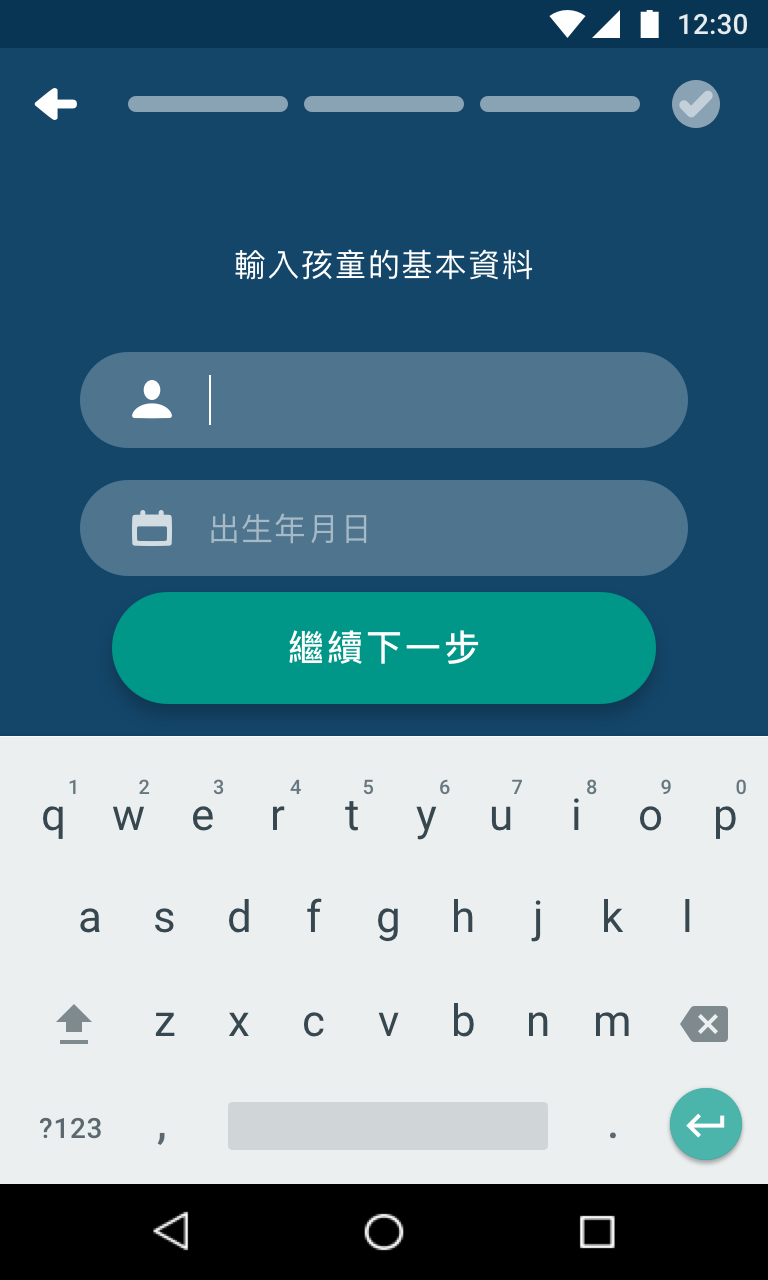
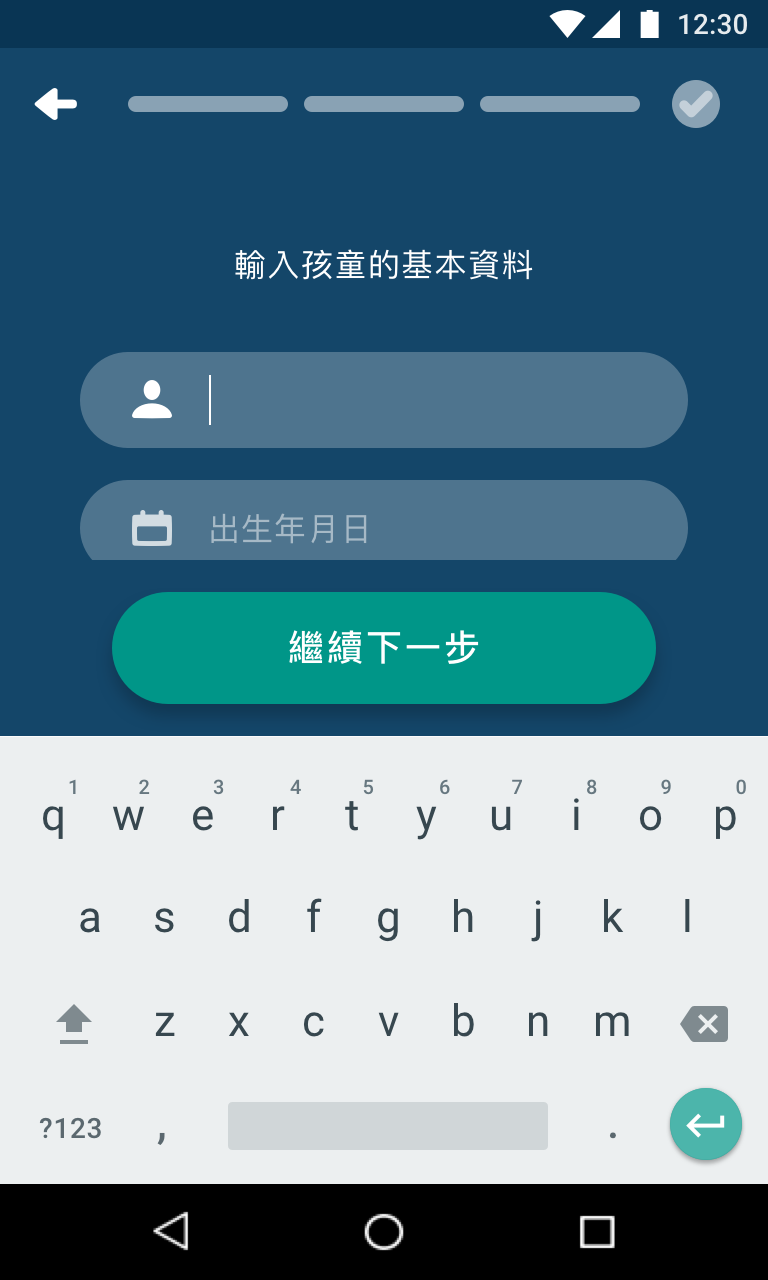
z

Changed region(s): [[0.125, 0.4375, 0.875, 0.4688]]

diff --git a/page_user_addkid(1)_typing/index.html b/page_user_addkid(1)_typing/index.html
@@ -1656,7 +1656,7 @@ I18N['zh-tw'] = {
     init.prototype = SMApp.fn;
     window.SMApp = SMApp;
 })(window);
-$(function(){ SMApp({"scale":"1","unit":"px","colorFormat":"color-hex","artboards":[{"layers":[{"objectID":"F35A9DF7-273A-4586-AC13-E6847CE329DE","type":"shape","name":"Bg_darkBlue","rect":{"x":0,"y":24,"width":384,"height":568},"rotation":0,"radius":0,"borders":[],"fills":[{"fillType":"color","color":{"r":20,"g":70,"b":105,"a":1,"color-hex":"#144669 100%","argb-hex":"#FF144669","css-rgba":"rgba(20,70,105,1)","ui-color":"(r:0.08 g:0.27 b:0.41 a:1.00)"}}],"shadows":[],"opacity":1,"styleName":"","css":["background: #144669;"]},{"objectID":"54569F8D-7CCC-48DC-B04D-5A514C8A64B6","type":"shape","name":"nav_bar","rect":{"x":0,"y":592,"width":384,"height":48},"rotation":0,"radius":0,"borders":[],"fills":[],"shadows":[],"opacity":1,"styleName":""},{"objectID":"A15F91AF-730A-4074-A24E-D45C4149D91A","type":"symbol","name":"Bar/Header","rect":{"x":0,"y":24,"width":384,"height":56},"rotation":0,"radius":0,"borders":[],"fills":[],"shadows":[],"opacity":1,"styleName":""},{"objectID":"F7567344-B48B-42DA-A3CC-50CE141C64CD","type":"shape","name":"bg","rect":{"x":0,"y":24,"width":384,"height":56},"rotation":0,"radius":0,"borders":[],"fills":[{"fillType":"color","color":{"r":20,"g":70,"b":105,"a":1,"color-hex":"#144669 100%","argb-hex":"#FF144669","css-rgba":"rgba(20,70,105,1)","ui-color":"(r:0.08 g:0.27 b:0.41 a:1.00)"}}],"shadows":[],"opacity":1,"styleName":"","css":["background: #144669;"]},{"objectID":"583EEB53-0298-4464-92ED-E6D612EDCB21","type":"symbol","name":"Icon/menu","rect":{"x":16,"y":40,"width":24,"height":24},"rotation":0,"radius":0,"borders":[],"fills":[],"shadows":[],"opacity":1,"styleName":"","exportable":[{"name":"Icon/back","format":"png","path":"Icon/back.png"}]},{"objectID":"1D9038E2-0B4B-4B89-8FD6-5779EE9AC07C","type":"symbol","name":"Bars/Status bar","rect":{"x":0,"y":0,"width":384,"height":24},"rotation":0,"radius":0,"borders":[],"fills":[],"shadows":[],"opacity":1,"styleName":""},{"objectID":"92B9CC3F-C79D-4213-845D-358967D93061","type":"shape","name":"status bar bg","rect":{"x":0,"y":0,"width":384,"height":24},"rotation":0,"radius":0,"borders":[],"fills":[{"fillType":"color","color":{"r":9,"g":53,"b":84,"a":1,"color-hex":"#093554 100%","argb-hex":"#FF093554","css-rgba":"rgba(9,53,84,1)","ui-color":"(r:0.04 g:0.21 b:0.33 a:1.00)"}}],"shadows":[],"opacity":1,"styleName":"","css":["background: #093554;"]},{"objectID":"C721A454-854E-449C-85BC-A123A8EC1018","type":"text","name":"12:30","rect":{"x":338.3,"y":4,"width":36,"height":16},"rotation":0,"radius":0,"borders":[],"fills":[{"fillType":"color","color":{"r":255,"g":255,"b":255,"a":1,"color-hex":"#FFFFFF 100%","argb-hex":"#FFFFFFFF","css-rgba":"rgba(255,255,255,1)","ui-color":"(r:1.00 g:1.00 b:1.00 a:1.00)"}}],"shadows":[],"opacity":1,"styleName":"","content":"12:30","color":{"r":0,"g":0,"b":0,"a":1,"color-hex":"#000000 100%","argb-hex":"#FF000000","css-rgba":"rgba(0,0,0,1)","ui-color":"(r:0.00 g:0.00 b:0.00 a:1.00)"},"fontSize":14,"fontFace":"Roboto-Medium","textAlign":"right","letterSpacing":0,"lineHeight":16,"css":["font-family: Roboto-Medium;","font-size: 14px;","color: #000000;"]},{"objectID":"EA577749-950A-4B95-AE91-1471809E4D5C","type":"shape","name":"bounds","rect":{"x":317.3,"y":4,"width":16,"height":16},"rotation":0,"radius":0,"borders":[],"fills":[],"shadows":[],"opacity":1,"styleName":""},{"objectID":"04509B03-1C82-4E70-A60B-563CB5EFDEED","type":"shape","name":"Shape","rect":{"x":320.3,"y":5,"width":9,"height":14},"rotation":0,"radius":0,"borders":[],"fills":[{"fillType":"color","color":{"r":255,"g":255,"b":255,"a":1,"color-hex":"#FFFFFF 100%","argb-hex":"#FFFFFFFF","css-rgba":"rgba(255,255,255,1)","ui-color":"(r:1.00 g:1.00 b:1.00 a:1.00)"}}],"shadows":[],"opacity":1,"styleName":"","css":["background: #FFFFFF;"]},{"objectID":"7EBD03E0-7CF8-4DF4-84D6-87FC9A84FB1E","type":"shape","name":"bounds","rect":{"x":296,"y":4,"width":16,"height":16},"rotation":0,"radius":0,"borders":[],"fills":[],"shadows":[],"opacity":1,"styleName":""},{"objectID":"CBB32A07-0D54-40D4-A69F-2B64CBF676E5","type":"shape","name":"Shape","rect":{"x":296,"y":5,"width":14,"height":14},"rotation":0,"radius":0,"borders":[],"fills":[{"fillType":"color","color":{"r":255,"g":255,"b":255,"a":1,"color-hex":"#FFFFFF 100%","argb-hex":"#FFFFFFFF","css-rgba":"rgba(255,255,255,1)","ui-color":"(r:1.00 g:1.00 b:1.00 a:1.00)"}}],"shadows":[],"opacity":1,"styleName":"","css":["background: #FFFFFF;"]},{"objectID":"1C63ECF8-A21C-468D-A2E0-36C0B9689898","type":"shape","name":"bounds","rect":{"x":275.7,"y":4,"width":16,"height":16},"rotation":0,"radius":0,"borders":[],"fills":[],"shadows":[],"opacity":1,"styleName":""},{"objectID":"7A5D021E-5761-4B5B-A926-8A58D348CA3B","type":"shape","name":"Shape","rect":{"x":274.7,"y":5,"width":18,"height":14},"rotation":0,"radius":0,"borders":[],"fills":[{"fillType":"color","color":{"r":255,"g":255,"b":255,"a":1,"color-hex":"#FFFFFF 100%","argb-hex":"#FFFFFFFF","css-rgba":"rgba(255,255,255,1)","ui-color":"(r:1.00 g:1.00 b:1.00 a:1.00)"}}],"shadows":[],"opacity":1,"styleName":"","css":["background: #FFFFFF;"]},{"objectID":"CB2D9A11-7370-4C8A-A47B-BFACD473E6F5","type":"shape","name":"Line1","rect":{"x":152,"y":48,"width":80,"height":8},"rotation":0,"radius":100,"borders":[],"fills":[{"fillType":"color","color":{"r":255,"g":255,"b":255,"a":0.5,"color-hex":"#FFFFFF 50%","argb-hex":"#80FFFFFF","css-rgba":"rgba(255,255,255,0.5)","ui-color":"(r:1.00 g:1.00 b:1.00 a:0.50)"}}],"shadows":[],"opacity":1,"styleName":"","css":["background: rgba(255,255,255,0.50);","border-radius: 100px;"]},{"objectID":"5EA19C75-C6E9-4918-BEF9-CAD501B7AD96","type":"shape","name":"Line2","rect":{"x":240,"y":48,"width":80,"height":8},"rotation":0,"radius":100,"borders":[],"fills":[{"fillType":"color","color":{"r":255,"g":255,"b":255,"a":0.5,"color-hex":"#FFFFFF 50%","argb-hex":"#80FFFFFF","css-rgba":"rgba(255,255,255,0.5)","ui-color":"(r:1.00 g:1.00 b:1.00 a:0.50)"}}],"shadows":[],"opacity":1,"styleName":"","css":["background: rgba(255,255,255,0.50);","border-radius: 100px;"]},{"objectID":"AE4B0444-88B0-4682-AEEB-9C0E102E9D0F","type":"shape","name":"Line3","rect":{"x":64,"y":48,"width":80,"height":8},"rotation":0,"radius":100,"borders":[],"fills":[{"fillType":"color","color":{"r":255,"g":255,"b":255,"a":0.5,"color-hex":"#FFFFFF 50%","argb-hex":"#80FFFFFF","css-rgba":"rgba(255,255,255,0.5)","ui-color":"(r:1.00 g:1.00 b:1.00 a:0.50)"}}],"shadows":[],"opacity":1,"styleName":"","css":["background: rgba(255,255,255,0.50);","border-radius: 100px;"]},{"objectID":"E7587176-18C0-4594-A630-BC49807261DA","type":"shape","name":"Oval 6","rect":{"x":336,"y":40,"width":24,"height":24},"rotation":0,"radius":0,"borders":[],"fills":[{"fillType":"color","color":{"r":255,"g":255,"b":255,"a":0.5,"color-hex":"#FFFFFF 50%","argb-hex":"#80FFFFFF","css-rgba":"rgba(255,255,255,0.5)","ui-color":"(r:1.00 g:1.00 b:1.00 a:0.50)"}}],"shadows":[],"opacity":1,"styleName":"","css":["background: rgba(255,255,255,0.50);"]},{"objectID":"1C34B1A2-B765-4899-8F80-1F87E7AFF339","type":"symbol","name":"Icon/check","rect":{"x":338,"y":42,"width":20,"height":20},"rotation":0,"radius":0,"borders":[],"fills":[],"shadows":[],"opacity":0.5,"styleName":"","css":["opacity: 0.5;"],"exportable":[{"name":"Icon/check","format":"png","path":"Icon/check.png"}]},{"objectID":"2AE68729-B81B-4434-84A7-F0B0F8B45E3D","type":"shape","name":"Bg_selected","rect":{"x":51,"y":384,"width":133,"height":48},"rotation":0,"radius":100,"borders":[],"fills":[{"fillType":"color","color":{"r":255,"g":255,"b":255,"a":0.2499999850988388,"color-hex":"#FFFFFF 25%","argb-hex":"#40FFFFFF","css-rgba":"rgba(255,255,255,0.25)","ui-color":"(r:1.00 g:1.00 b:1.00 a:0.25)"}}],"shadows":[],"opacity":1,"styleName":"","css":["background: rgba(255,255,255,0.25);","border-radius: 100px;"]},{"objectID":"DD608600-B167-4226-B98E-419C58F03BB1","type":"text","name":"男孩","rect":{"x":123,"y":396,"width":37,"height":24},"rotation":0,"radius":0,"borders":[],"fills":[],"shadows":[],"opacity":1,"styleName":"","content":"男孩","color":{"r":255,"g":255,"b":255,"a":1,"color-hex":"#FFFFFF 100%","argb-hex":"#FFFFFFFF","css-rgba":"rgba(255,255,255,1)","ui-color":"(r:1.00 g:1.00 b:1.00 a:1.00)"},"fontSize":18,"fontFace":"PingFangTC-Medium","textAlign":"left","letterSpacing":0.5,"lineHeight":24,"css":["font-family: PingFangTC-Medium;","font-size: 18px;","color: #FFFFFF;","letter-spacing: 0.5px;","line-height: 24px;"]},{"objectID":"D6E62005-7B8C-48E0-A602-71E6C058E6CD","type":"slice","name":"avatar_boy","rect":{"x":67,"y":388,"width":40,"height":40},"exportable":[{"name":"avatar_boy","format":"png","path":"avatar_boy.png"}]},{"objectID":"3F7D44EF-9E5F-43E8-9144-23ACFE503E84","type":"shape","name":"Bg_selected","rect":{"x":200,"y":384,"width":133,"height":48},"rotation":0,"radius":100,"borders":[],"fills":[{"fillType":"color","color":{"r":255,"g":255,"b":255,"a":0,"color-hex":"#FFFFFF 0%","argb-hex":"#00FFFFFF","css-rgba":"rgba(255,255,255,0)","ui-color":"(r:1.00 g:1.00 b:1.00 a:0.00)"}}],"shadows":[],"opacity":1,"styleName":"","css":["background: rgba(255,255,255,0.00);","border-radius: 100px;"]},{"objectID":"10AC87CB-9067-490D-91B4-E22D6F52D95B","type":"text","name":"女孩","rect":{"x":272,"y":396,"width":37,"height":24},"rotation":0,"radius":0,"borders":[],"fills":[],"shadows":[],"opacity":1,"styleName":"","content":"女孩","color":{"r":255,"g":255,"b":255,"a":1,"color-hex":"#FFFFFF 100%","argb-hex":"#FFFFFFFF","css-rgba":"rgba(255,255,255,1)","ui-color":"(r:1.00 g:1.00 b:1.00 a:1.00)"},"fontSize":18,"fontFace":"PingFangTC-Medium","textAlign":"left","letterSpacing":0.5,"lineHeight":24,"css":["font-family: PingFangTC-Medium;","font-size: 18px;","color: #FFFFFF;","letter-spacing: 0.5px;","line-height: 24px;"]},{"objectID":"B9CFD9AF-51E1-4D6F-BD3B-3FF71C1AD1D6","type":"slice","name":"avatar_girl copy","rect":{"x":216,"y":388,"width":40,"height":40},"exportable":[{"name":"avatar_girl copy","format":"png","path":"avatar_girl copy.png"}]},{"objectID":"5A4222A2-9A8E-40EC-AA8E-1FA67712F30E","type":"text","name":"選擇孩童的性別","rect":{"x":134,"y":328,"width":117,"height":24},"rotation":0,"radius":0,"borders":[],"fills":[],"shadows":[],"opacity":1,"styleName":"","content":"選擇孩童的性別","color":{"r":255,"g":255,"b":255,"a":1,"color-hex":"#FFFFFF 100%","argb-hex":"#FFFFFFFF","css-rgba":"rgba(255,255,255,1)","ui-color":"(r:1.00 g:1.00 b:1.00 a:1.00)"},"fontSize":16,"fontFace":"Roboto-Regular","textAlign":"center","letterSpacing":0.699999988079071,"lineHeight":24,"css":["font-family: Roboto-Regular;","font-size: 16px;","color: #FFFFFF;","letter-spacing: 0.7px;","line-height: 24px;"]},{"objectID":"165B99B2-BEAC-4C39-AF09-68B660EC2441","type":"symbol","name":"Input/normal","rect":{"x":40,"y":176,"width":304,"height":48},"rotation":0,"radius":0,"borders":[],"fills":[],"shadows":[],"opacity":1,"styleName":""},{"objectID":"8D465CDA-E637-4CC5-B22B-4128F2A41E57","type":"shape","name":"Bg_input","rect":{"x":40,"y":176,"width":304,"height":48},"rotation":0,"radius":100,"borders":[],"fills":[{"fillType":"color","color":{"r":255,"g":255,"b":255,"a":0.25,"color-hex":"#FFFFFF 25%","argb-hex":"#40FFFFFF","css-rgba":"rgba(255,255,255,0.25)","ui-color":"(r:1.00 g:1.00 b:1.00 a:0.25)"}}],"shadows":[],"opacity":1,"styleName":"","css":["background: rgba(255,255,255,0.25);","border-radius: 100px;"]},{"objectID":"1E2AD092-03B3-434E-8F95-86852CD7C4F4","type":"symbol","name":"Icon/person","rect":{"x":64,"y":188,"width":24,"height":24},"rotation":0,"radius":0,"borders":[],"fills":[],"shadows":[],"opacity":1,"styleName":"","exportable":[{"name":"Icon/person","format":"png","path":"Icon/person.png"}]},{"objectID":"22693D0A-6DCF-45E9-A664-24AB9D79D315","type":"shape","name":"Line","rect":{"x":104,"y":188,"width":2,"height":24},"rotation":0,"radius":0,"borders":[{"fillType":"color","position":"center","thickness":1,"color":{"r":255,"g":255,"b":255,"a":1,"color-hex":"#FFFFFF 100%","argb-hex":"#FFFFFFFF","css-rgba":"rgba(255,255,255,1)","ui-color":"(r:1.00 g:1.00 b:1.00 a:1.00)"}}],"fills":[],"shadows":[],"opacity":1,"styleName":"","css":["border: 1px solid #FFFFFF;"]},{"objectID":"BF1D3D7E-54DC-400A-88F6-0B673BF03D0D","type":"symbol","name":"Input/normal Copy","rect":{"x":40,"y":240,"width":304,"height":48},"rotation":0,"radius":0,"borders":[],"fills":[],"shadows":[],"opacity":1,"styleName":""},{"objectID":"87D83326-6E0F-4EEA-B312-F28E05B72863","type":"shape","name":"Bg_input","rect":{"x":40,"y":240,"width":304,"height":48},"rotation":0,"radius":100,"borders":[],"fills":[{"fillType":"color","color":{"r":255,"g":255,"b":255,"a":0.25,"color-hex":"#FFFFFF 25%","argb-hex":"#40FFFFFF","css-rgba":"rgba(255,255,255,0.25)","ui-color":"(r:1.00 g:1.00 b:1.00 a:0.25)"}}],"shadows":[],"opacity":1,"styleName":"","css":["background: rgba(255,255,255,0.25);","border-radius: 100px;"]},{"objectID":"B507ECFD-4F80-4E1A-B5AC-7AC48E3BCA7C","type":"text","name":"Text_default","rect":{"x":104,"y":252,"width":83,"height":24},"rotation":0,"radius":0,"borders":[],"fills":[],"shadows":[],"opacity":0.5,"styleName":"","content":"出生年月日","color":{"r":255,"g":255,"b":255,"a":1,"color-hex":"#FFFFFF 100%","argb-hex":"#FFFFFFFF","css-rgba":"rgba(255,255,255,1)","ui-color":"(r:1.00 g:1.00 b:1.00 a:1.00)"},"fontSize":16,"fontFace":"Roboto-Regular","textAlign":"left","letterSpacing":0.5,"lineHeight":24,"css":["opacity: 0.5;","font-family: Roboto-Regular;","font-size: 16px;","color: #FFFFFF;","letter-spacing: 0.5px;","line-height: 24px;"]},{"objectID":"7F0D17CB-E802-4210-AAA2-933E3AF012D9","type":"symbol","name":"Icon/person","rect":{"x":64,"y":252,"width":24,"height":24},"rotation":0,"radius":0,"borders":[],"fills":[],"shadows":[],"opacity":0.75,"styleName":"","css":["opacity: 0.75;"],"exportable":[{"name":"Icon/calender","format":"png","path":"Icon/calender.png"}]},{"objectID":"10BD976D-127C-4422-BB02-BEDE1B1B2771","type":"text","name":"輸入孩童的基本資料","rect":{"x":117,"y":120,"width":150,"height":24},"rotation":0,"radius":0,"borders":[],"fills":[],"shadows":[],"opacity":1,"styleName":"","content":"輸入孩童的基本資料","color":{"r":255,"g":255,"b":255,"a":1,"color-hex":"#FFFFFF 100%","argb-hex":"#FFFFFFFF","css-rgba":"rgba(255,255,255,1)","ui-color":"(r:1.00 g:1.00 b:1.00 a:1.00)"},"fontSize":16,"fontFace":"Roboto-Regular","textAlign":"center","letterSpacing":0.699999988079071,"lineHeight":24,"css":["font-family: Roboto-Regular;","font-size: 16px;","color: #FFFFFF;","letter-spacing: 0.7px;","line-height: 24px;"]},{"objectID":"88C2BF9B-EE2D-4306-BF9E-18012116E61A","type":"shape","name":"bg","rect":{"x":0,"y":368,"width":384,"height":224},"rotation":0,"radius":0,"borders":[],"fills":[{"fillType":"color","color":{"r":236,"g":239,"b":240,"a":1,"color-hex":"#ECEFF0 100%","argb-hex":"#FFECEFF0","css-rgba":"rgba(236,239,240,1)","ui-color":"(r:0.93 g:0.94 b:0.94 a:1.00)"}}],"shadows":[{"type":"outer","offsetX":0,"offsetY":0,"blurRadius":2,"spread":0,"color":{"r":0,"g":0,"b":0,"a":0.12,"color-hex":"#000000 12%","argb-hex":"#1F000000","css-rgba":"rgba(0,0,0,0.12)","ui-color":"(r:0.00 g:0.00 b:0.00 a:0.12)"}},{"type":"outer","offsetX":0,"offsetY":2,"blurRadius":2,"spread":0,"color":{"r":0,"g":0,"b":0,"a":0.24,"color-hex":"#000000 24%","argb-hex":"#3D000000","css-rgba":"rgba(0,0,0,0.24)","ui-color":"(r:0.00 g:0.00 b:0.00 a:0.24)"}},{"type":"inner","offsetX":0,"offsetY":0.5,"blurRadius":0,"spread":0,"color":{"r":255,"g":255,"b":255,"a":0.8,"color-hex":"#FFFFFF 80%","argb-hex":"#CCFFFFFF","css-rgba":"rgba(255,255,255,0.8)","ui-color":"(r:1.00 g:1.00 b:1.00 a:0.80)"}}],"opacity":1,"styleName":"","css":["background: #ECEFF0;","box-shadow: 0 2px 2px 0 rgba(0,0,0,0.24), 0 0 2px 0 rgba(0,0,0,0.12), inset 0 0 0 0 rgba(255,255,255,0.80);"]},{"objectID":"5DF655FB-9F2B-423D-8557-38C5FAA4AEBA","type":"shape","name":"space","rect":{"x":114,"y":551,"width":160,"height":24},"rotation":0,"radius":0,"borders":[],"fills":[{"fillType":"color","color":{"r":55,"g":71,"b":79,"a":1,"color-hex":"#37474F 100%","argb-hex":"#FF37474F","css-rgba":"rgba(55,71,79,1)","ui-color":"(r:0.22 g:0.28 b:0.31 a:1.00)"}}],"shadows":[],"opacity":0.15,"styleName":"","css":["opacity: 0.15;","background: #37474F;"]},{"objectID":"CE30689E-FC86-40B1-928F-3FC126C66E75","type":"shape","name":"caps","rect":{"x":28,"y":502,"width":18,"height":20},"rotation":0,"radius":0,"borders":[],"fills":[{"fillType":"color","color":{"r":55,"g":71,"b":79,"a":1,"color-hex":"#37474F 100%","argb-hex":"#FF37474F","css-rgba":"rgba(55,71,79,1)","ui-color":"(r:0.22 g:0.28 b:0.31 a:1.00)"}}],"shadows":[],"opacity":0.6,"styleName":"","css":["opacity: 0.6;","background: #37474F;"]},{"objectID":"D6E333C1-D8D4-4533-82D7-838E1317D19A","type":"shape","name":"delete","rect":{"x":340,"y":503,"width":24,"height":18},"rotation":0,"radius":0,"borders":[],"fills":[{"fillType":"color","color":{"r":55,"g":71,"b":79,"a":1,"color-hex":"#37474F 100%","argb-hex":"#FF37474F","css-rgba":"rgba(55,71,79,1)","ui-color":"(r:0.22 g:0.28 b:0.31 a:1.00)"}}],"shadows":[],"opacity":0.6,"styleName":"","css":["opacity: 0.6;","background: #37474F;"]},{"objectID":"70D31499-7F90-421E-8C2C-AB6BC989C91A","type":"shape","name":"button bg","rect":{"x":335,"y":544,"width":36,"height":36},"rotation":0,"radius":0,"borders":[{"fillType":"color","position":"inside","thickness":0.3,"color":{"r":76,"g":181,"b":171,"a":1,"color-hex":"#4CB5AB 100%","argb-hex":"#FF4CB5AB","css-rgba":"rgba(76,181,171,1)","ui-color":"(r:0.30 g:0.71 b:0.67 a:1.00)"}},{"fillType":"gradient","position":"inside","thickness":0.3,"gradient":{"type":"linear","from":{"x":0.5,"y":0},"to":{"x":0.5,"y":1},"colorStops":[{"color":{"r":0,"g":0,"b":0,"a":0,"color-hex":"#000000 0%","argb-hex":"#00000000","css-rgba":"rgba(0,0,0,0)","ui-color":"(r:0.00 g:0.00 b:0.00 a:0.00)"},"position":0},{"color":{"r":0,"g":0,"b":0,"a":0.02,"color-hex":"#000000 2%","argb-hex":"#05000000","css-rgba":"rgba(0,0,0,0.02)","ui-color":"(r:0.00 g:0.00 b:0.00 a:0.02)"},"position":0.8},{"color":{"r":0,"g":0,"b":0,"a":0.04,"color-hex":"#000000 4%","argb-hex":"#0A000000","css-rgba":"rgba(0,0,0,0.04)","ui-color":"(r:0.00 g:0.00 b:0.00 a:0.04)"},"position":1}]}},{"fillType":"color","position":"inside","thickness":0.3,"color":{"r":0,"g":150,"b":136,"a":0.12,"color-hex":"#009688 12%","argb-hex":"#1F009688","css-rgba":"rgba(0,150,136,0.12)","ui-color":"(r:0.00 g:0.59 b:0.53 a:0.12)"}}],"fills":[{"fillType":"color","color":{"r":76,"g":181,"b":171,"a":1,"color-hex":"#4CB5AB 100%","argb-hex":"#FF4CB5AB","css-rgba":"rgba(76,181,171,1)","ui-color":"(r:0.30 g:0.71 b:0.67 a:1.00)"}}],"shadows":[{"type":"outer","offsetX":0,"offsetY":0,"blurRadius":2,"spread":0,"color":{"r":0,"g":0,"b":0,"a":0.12,"color-hex":"#000000 12%","argb-hex":"#1F000000","css-rgba":"rgba(0,0,0,0.12)","ui-color":"(r:0.00 g:0.00 b:0.00 a:0.12)"}},{"type":"outer","offsetX":0,"offsetY":2,"blurRadius":2,"spread":0,"color":{"r":0,"g":0,"b":0,"a":0.24,"color-hex":"#000000 24%","argb-hex":"#3D000000","css-rgba":"rgba(0,0,0,0.24)","ui-color":"(r:0.00 g:0.00 b:0.00 a:0.24)"}},{"type":"outer","offsetX":0,"offsetY":0,"blurRadius":0,"spread":0.3,"color":{"r":0,"g":0,"b":0,"a":0.02,"color-hex":"#000000 2%","argb-hex":"#05000000","css-rgba":"rgba(0,0,0,0.02)","ui-color":"(r:0.00 g:0.00 b:0.00 a:0.02)"}}],"opacity":1,"styleName":"","css":["background: #4CB5AB;","border: 0 solid #4CB5AB;","border: 0 solid rgba(0,150,136,0.12);","box-shadow: 0 0 0 0 rgba(0,0,0,0.02), 0 2px 2px 0 rgba(0,0,0,0.24), 0 0 2px 0 rgba(0,0,0,0.12);"]},{"objectID":"E313917F-CFAF-46D3-973B-8AB8170C3A98","type":"shape","name":"return icon","rect":{"x":343.1,"y":556.8,"width":19,"height":12},"rotation":0,"radius":0,"borders":[],"fills":[{"fillType":"color","color":{"r":255,"g":255,"b":255,"a":1,"color-hex":"#FFFFFF 100%","argb-hex":"#FFFFFFFF","css-rgba":"rgba(255,255,255,1)","ui-color":"(r:1.00 g:1.00 b:1.00 a:1.00)"}}],"shadows":[],"opacity":1,"styleName":"","css":["background: #FFFFFF;"]},{"objectID":"4B3F0B63-7A68-45FD-A2A3-152B19B6002B","type":"shape","name":"Rectangle 13","rect":{"x":56,"y":296,"width":272,"height":56},"rotation":0,"radius":100,"borders":[],"fills":[{"fillType":"color","color":{"r":0,"g":150,"b":136,"a":1,"color-hex":"#009688 100%","argb-hex":"#FF009688","css-rgba":"rgba(0,150,136,1)","ui-color":"(r:0.00 g:0.59 b:0.53 a:1.00)"}}],"shadows":[{"type":"outer","offsetX":0,"offsetY":6,"blurRadius":8,"spread":0,"color":{"r":0,"g":0,"b":0,"a":0.2,"color-hex":"#000000 20%","argb-hex":"#33000000","css-rgba":"rgba(0,0,0,0.2)","ui-color":"(r:0.00 g:0.00 b:0.00 a:0.20)"}}],"opacity":1,"styleName":"","css":["background: #009688;","box-shadow: 0 6px 8px 0 rgba(0,0,0,0.20);","border-radius: 100px;"]},{"objectID":"1EA8621F-B818-4BFA-A327-BF557030B251","type":"text","name":"繼續下一步","rect":{"x":144,"y":312,"width":96,"height":24},"rotation":0,"radius":0,"borders":[],"fills":[],"shadows":[],"opacity":1,"styleName":"","content":"繼續下一步","color":{"r":255,"g":255,"b":255,"a":1,"color-hex":"#FFFFFF 100%","argb-hex":"#FFFFFFFF","css-rgba":"rgba(255,255,255,1)","ui-color":"(r:1.00 g:1.00 b:1.00 a:1.00)"},"fontSize":18,"fontFace":"Roboto-Medium","textAlign":"center","letterSpacing":1.5,"lineHeight":24,"css":["font-family: Roboto-Medium;","font-size: 18px;","color: #FFFFFF;","letter-spacing: 1.5px;","line-height: 24px;"]}],"notes":[{"rect":{"x":324,"y":314,"width":120,"height":17},"note":"button會fix在鍵盤上面"}],"pageName":"Page 1","pageObjectID":"D526FE0C-BCEE-4C14-AAE0-85B6CF2F2B53","name":"會員專區-addkid(1)-typing","slug":"page-1-會員專區-addkid1-typing","objectID":"B3F0AFC0-DAE1-42FB-9ACB-2A3B5DF6AC33","width":384,"height":640,"imagePath":"preview/page-1-%E6%9C%83%E5%93%A1%E5%B0%88%E5%8D%80-addkid1-typing.png"}],"slices":[{"name":"Icon/menu","objectID":"583EEB53-0298-4464-92ED-E6D612EDCB21","rect":{"x":16,"y":40,"width":24,"height":24},"exportable":[{"name":"Icon/back","format":"png","path":"Icon/back.png"}]},{"name":"Icon/check","objectID":"1C34B1A2-B765-4899-8F80-1F87E7AFF339","rect":{"x":338,"y":42,"width":20,"height":20},"exportable":[{"name":"Icon/check","format":"png","path":"Icon/check.png"}]},{"name":"avatar_boy","objectID":"D6E62005-7B8C-48E0-A602-71E6C058E6CD","rect":{"x":67,"y":388,"width":40,"height":40},"exportable":[{"name":"avatar_boy","format":"png","path":"avatar_boy.png"}]},{"name":"avatar_girl copy","objectID":"B9CFD9AF-51E1-4D6F-BD3B-3FF71C1AD1D6","rect":{"x":216,"y":388,"width":40,"height":40},"exportable":[{"name":"avatar_girl copy","format":"png","path":"avatar_girl copy.png"}]},{"name":"Icon/person","objectID":"1E2AD092-03B3-434E-8F95-86852CD7C4F4","rect":{"x":64,"y":188,"width":24,"height":24},"exportable":[{"name":"Icon/person","format":"png","path":"Icon/person.png"}]},{"name":"Icon/person","objectID":"7F0D17CB-E802-4210-AAA2-933E3AF012D9","rect":{"x":64,"y":252,"width":24,"height":24},"exportable":[{"name":"Icon/calender","format":"png","path":"Icon/calender.png"}]}],"colors":[]}) });
+$(function(){ SMApp({"scale":"1","unit":"px","colorFormat":"color-hex","artboards":[{"layers":[{"objectID":"F35A9DF7-273A-4586-AC13-E6847CE329DE","type":"shape","name":"Bg_darkBlue","rect":{"x":0,"y":24,"width":384,"height":568},"rotation":0,"radius":0,"borders":[],"fills":[{"fillType":"color","color":{"r":20,"g":70,"b":105,"a":1,"color-hex":"#144669 100%","argb-hex":"#FF144669","css-rgba":"rgba(20,70,105,1)","ui-color":"(r:0.08 g:0.27 b:0.41 a:1.00)"}}],"shadows":[],"opacity":1,"styleName":"","css":["background: #144669;"]},{"objectID":"54569F8D-7CCC-48DC-B04D-5A514C8A64B6","type":"shape","name":"nav_bar","rect":{"x":0,"y":592,"width":384,"height":48},"rotation":0,"radius":0,"borders":[],"fills":[],"shadows":[],"opacity":1,"styleName":""},{"objectID":"A15F91AF-730A-4074-A24E-D45C4149D91A","type":"symbol","name":"Bar/Header","rect":{"x":0,"y":24,"width":384,"height":56},"rotation":0,"radius":0,"borders":[],"fills":[],"shadows":[],"opacity":1,"styleName":""},{"objectID":"F7567344-B48B-42DA-A3CC-50CE141C64CD","type":"shape","name":"bg","rect":{"x":0,"y":24,"width":384,"height":56},"rotation":0,"radius":0,"borders":[],"fills":[{"fillType":"color","color":{"r":20,"g":70,"b":105,"a":1,"color-hex":"#144669 100%","argb-hex":"#FF144669","css-rgba":"rgba(20,70,105,1)","ui-color":"(r:0.08 g:0.27 b:0.41 a:1.00)"}}],"shadows":[],"opacity":1,"styleName":"","css":["background: #144669;"]},{"objectID":"583EEB53-0298-4464-92ED-E6D612EDCB21","type":"symbol","name":"Icon/menu","rect":{"x":16,"y":40,"width":24,"height":24},"rotation":0,"radius":0,"borders":[],"fills":[],"shadows":[],"opacity":1,"styleName":"","exportable":[{"name":"Icon/back","format":"png","path":"Icon/back.png"}]},{"objectID":"1D9038E2-0B4B-4B89-8FD6-5779EE9AC07C","type":"symbol","name":"Bars/Status bar","rect":{"x":0,"y":0,"width":384,"height":24},"rotation":0,"radius":0,"borders":[],"fills":[],"shadows":[],"opacity":1,"styleName":""},{"objectID":"92B9CC3F-C79D-4213-845D-358967D93061","type":"shape","name":"status bar bg","rect":{"x":0,"y":0,"width":384,"height":24},"rotation":0,"radius":0,"borders":[],"fills":[{"fillType":"color","color":{"r":9,"g":53,"b":84,"a":1,"color-hex":"#093554 100%","argb-hex":"#FF093554","css-rgba":"rgba(9,53,84,1)","ui-color":"(r:0.04 g:0.21 b:0.33 a:1.00)"}}],"shadows":[],"opacity":1,"styleName":"","css":["background: #093554;"]},{"objectID":"C721A454-854E-449C-85BC-A123A8EC1018","type":"text","name":"12:30","rect":{"x":338.3,"y":4,"width":36,"height":16},"rotation":0,"radius":0,"borders":[],"fills":[{"fillType":"color","color":{"r":255,"g":255,"b":255,"a":1,"color-hex":"#FFFFFF 100%","argb-hex":"#FFFFFFFF","css-rgba":"rgba(255,255,255,1)","ui-color":"(r:1.00 g:1.00 b:1.00 a:1.00)"}}],"shadows":[],"opacity":1,"styleName":"","content":"12:30","color":{"r":0,"g":0,"b":0,"a":1,"color-hex":"#000000 100%","argb-hex":"#FF000000","css-rgba":"rgba(0,0,0,1)","ui-color":"(r:0.00 g:0.00 b:0.00 a:1.00)"},"fontSize":14,"fontFace":"Roboto-Medium","textAlign":"right","letterSpacing":0,"lineHeight":16,"css":["font-family: Roboto-Medium;","font-size: 14px;","color: #000000;"]},{"objectID":"EA577749-950A-4B95-AE91-1471809E4D5C","type":"shape","name":"bounds","rect":{"x":317.3,"y":4,"width":16,"height":16},"rotation":0,"radius":0,"borders":[],"fills":[],"shadows":[],"opacity":1,"styleName":""},{"objectID":"04509B03-1C82-4E70-A60B-563CB5EFDEED","type":"shape","name":"Shape","rect":{"x":320.3,"y":5,"width":9,"height":14},"rotation":0,"radius":0,"borders":[],"fills":[{"fillType":"color","color":{"r":255,"g":255,"b":255,"a":1,"color-hex":"#FFFFFF 100%","argb-hex":"#FFFFFFFF","css-rgba":"rgba(255,255,255,1)","ui-color":"(r:1.00 g:1.00 b:1.00 a:1.00)"}}],"shadows":[],"opacity":1,"styleName":"","css":["background: #FFFFFF;"]},{"objectID":"7EBD03E0-7CF8-4DF4-84D6-87FC9A84FB1E","type":"shape","name":"bounds","rect":{"x":296,"y":4,"width":16,"height":16},"rotation":0,"radius":0,"borders":[],"fills":[],"shadows":[],"opacity":1,"styleName":""},{"objectID":"CBB32A07-0D54-40D4-A69F-2B64CBF676E5","type":"shape","name":"Shape","rect":{"x":296,"y":5,"width":14,"height":14},"rotation":0,"radius":0,"borders":[],"fills":[{"fillType":"color","color":{"r":255,"g":255,"b":255,"a":1,"color-hex":"#FFFFFF 100%","argb-hex":"#FFFFFFFF","css-rgba":"rgba(255,255,255,1)","ui-color":"(r:1.00 g:1.00 b:1.00 a:1.00)"}}],"shadows":[],"opacity":1,"styleName":"","css":["background: #FFFFFF;"]},{"objectID":"1C63ECF8-A21C-468D-A2E0-36C0B9689898","type":"shape","name":"bounds","rect":{"x":275.7,"y":4,"width":16,"height":16},"rotation":0,"radius":0,"borders":[],"fills":[],"shadows":[],"opacity":1,"styleName":""},{"objectID":"7A5D021E-5761-4B5B-A926-8A58D348CA3B","type":"shape","name":"Shape","rect":{"x":274.7,"y":5,"width":18,"height":14},"rotation":0,"radius":0,"borders":[],"fills":[{"fillType":"color","color":{"r":255,"g":255,"b":255,"a":1,"color-hex":"#FFFFFF 100%","argb-hex":"#FFFFFFFF","css-rgba":"rgba(255,255,255,1)","ui-color":"(r:1.00 g:1.00 b:1.00 a:1.00)"}}],"shadows":[],"opacity":1,"styleName":"","css":["background: #FFFFFF;"]},{"objectID":"CB2D9A11-7370-4C8A-A47B-BFACD473E6F5","type":"shape","name":"Line1","rect":{"x":152,"y":48,"width":80,"height":8},"rotation":0,"radius":100,"borders":[],"fills":[{"fillType":"color","color":{"r":255,"g":255,"b":255,"a":0.5,"color-hex":"#FFFFFF 50%","argb-hex":"#80FFFFFF","css-rgba":"rgba(255,255,255,0.5)","ui-color":"(r:1.00 g:1.00 b:1.00 a:0.50)"}}],"shadows":[],"opacity":1,"styleName":"","css":["background: rgba(255,255,255,0.50);","border-radius: 100px;"]},{"objectID":"5EA19C75-C6E9-4918-BEF9-CAD501B7AD96","type":"shape","name":"Line2","rect":{"x":240,"y":48,"width":80,"height":8},"rotation":0,"radius":100,"borders":[],"fills":[{"fillType":"color","color":{"r":255,"g":255,"b":255,"a":0.5,"color-hex":"#FFFFFF 50%","argb-hex":"#80FFFFFF","css-rgba":"rgba(255,255,255,0.5)","ui-color":"(r:1.00 g:1.00 b:1.00 a:0.50)"}}],"shadows":[],"opacity":1,"styleName":"","css":["background: rgba(255,255,255,0.50);","border-radius: 100px;"]},{"objectID":"AE4B0444-88B0-4682-AEEB-9C0E102E9D0F","type":"shape","name":"Line3","rect":{"x":64,"y":48,"width":80,"height":8},"rotation":0,"radius":100,"borders":[],"fills":[{"fillType":"color","color":{"r":255,"g":255,"b":255,"a":0.5,"color-hex":"#FFFFFF 50%","argb-hex":"#80FFFFFF","css-rgba":"rgba(255,255,255,0.5)","ui-color":"(r:1.00 g:1.00 b:1.00 a:0.50)"}}],"shadows":[],"opacity":1,"styleName":"","css":["background: rgba(255,255,255,0.50);","border-radius: 100px;"]},{"objectID":"E7587176-18C0-4594-A630-BC49807261DA","type":"shape","name":"Oval 6","rect":{"x":336,"y":40,"width":24,"height":24},"rotation":0,"radius":0,"borders":[],"fills":[{"fillType":"color","color":{"r":255,"g":255,"b":255,"a":0.5,"color-hex":"#FFFFFF 50%","argb-hex":"#80FFFFFF","css-rgba":"rgba(255,255,255,0.5)","ui-color":"(r:1.00 g:1.00 b:1.00 a:0.50)"}}],"shadows":[],"opacity":1,"styleName":"","css":["background: rgba(255,255,255,0.50);"]},{"objectID":"1C34B1A2-B765-4899-8F80-1F87E7AFF339","type":"symbol","name":"Icon/check","rect":{"x":338,"y":42,"width":20,"height":20},"rotation":0,"radius":0,"borders":[],"fills":[],"shadows":[],"opacity":0.5,"styleName":"","css":["opacity: 0.5;"],"exportable":[{"name":"Icon/check","format":"png","path":"Icon/check.png"}]},{"objectID":"2AE68729-B81B-4434-84A7-F0B0F8B45E3D","type":"shape","name":"Bg_selected","rect":{"x":51,"y":384,"width":133,"height":48},"rotation":0,"radius":100,"borders":[],"fills":[{"fillType":"color","color":{"r":255,"g":255,"b":255,"a":0.2499999850988388,"color-hex":"#FFFFFF 25%","argb-hex":"#40FFFFFF","css-rgba":"rgba(255,255,255,0.25)","ui-color":"(r:1.00 g:1.00 b:1.00 a:0.25)"}}],"shadows":[],"opacity":1,"styleName":"","css":["background: rgba(255,255,255,0.25);","border-radius: 100px;"]},{"objectID":"DD608600-B167-4226-B98E-419C58F03BB1","type":"text","name":"男孩","rect":{"x":123,"y":396,"width":37,"height":24},"rotation":0,"radius":0,"borders":[],"fills":[],"shadows":[],"opacity":1,"styleName":"","content":"男孩","color":{"r":255,"g":255,"b":255,"a":1,"color-hex":"#FFFFFF 100%","argb-hex":"#FFFFFFFF","css-rgba":"rgba(255,255,255,1)","ui-color":"(r:1.00 g:1.00 b:1.00 a:1.00)"},"fontSize":18,"fontFace":"PingFangTC-Medium","textAlign":"left","letterSpacing":0.5,"lineHeight":24,"css":["font-family: PingFangTC-Medium;","font-size: 18px;","color: #FFFFFF;","letter-spacing: 0.5px;","line-height: 24px;"]},{"objectID":"D6E62005-7B8C-48E0-A602-71E6C058E6CD","type":"slice","name":"avatar_boy","rect":{"x":67,"y":388,"width":40,"height":40},"exportable":[{"name":"avatar_boy","format":"png","path":"avatar_boy.png"}]},{"objectID":"3F7D44EF-9E5F-43E8-9144-23ACFE503E84","type":"shape","name":"Bg_selected","rect":{"x":200,"y":384,"width":133,"height":48},"rotation":0,"radius":100,"borders":[],"fills":[{"fillType":"color","color":{"r":255,"g":255,"b":255,"a":0,"color-hex":"#FFFFFF 0%","argb-hex":"#00FFFFFF","css-rgba":"rgba(255,255,255,0)","ui-color":"(r:1.00 g:1.00 b:1.00 a:0.00)"}}],"shadows":[],"opacity":1,"styleName":"","css":["background: rgba(255,255,255,0.00);","border-radius: 100px;"]},{"objectID":"10AC87CB-9067-490D-91B4-E22D6F52D95B","type":"text","name":"女孩","rect":{"x":272,"y":396,"width":37,"height":24},"rotation":0,"radius":0,"borders":[],"fills":[],"shadows":[],"opacity":1,"styleName":"","content":"女孩","color":{"r":255,"g":255,"b":255,"a":1,"color-hex":"#FFFFFF 100%","argb-hex":"#FFFFFFFF","css-rgba":"rgba(255,255,255,1)","ui-color":"(r:1.00 g:1.00 b:1.00 a:1.00)"},"fontSize":18,"fontFace":"PingFangTC-Medium","textAlign":"left","letterSpacing":0.5,"lineHeight":24,"css":["font-family: PingFangTC-Medium;","font-size: 18px;","color: #FFFFFF;","letter-spacing: 0.5px;","line-height: 24px;"]},{"objectID":"B9CFD9AF-51E1-4D6F-BD3B-3FF71C1AD1D6","type":"slice","name":"avatar_girl copy","rect":{"x":216,"y":388,"width":40,"height":40},"exportable":[{"name":"avatar_girl copy","format":"png","path":"avatar_girl copy.png"}]},{"objectID":"5A4222A2-9A8E-40EC-AA8E-1FA67712F30E","type":"text","name":"選擇孩童的性別","rect":{"x":134,"y":328,"width":117,"height":24},"rotation":0,"radius":0,"borders":[],"fills":[],"shadows":[],"opacity":1,"styleName":"","content":"選擇孩童的性別","color":{"r":255,"g":255,"b":255,"a":1,"color-hex":"#FFFFFF 100%","argb-hex":"#FFFFFFFF","css-rgba":"rgba(255,255,255,1)","ui-color":"(r:1.00 g:1.00 b:1.00 a:1.00)"},"fontSize":16,"fontFace":"Roboto-Regular","textAlign":"center","letterSpacing":0.699999988079071,"lineHeight":24,"css":["font-family: Roboto-Regular;","font-size: 16px;","color: #FFFFFF;","letter-spacing: 0.7px;","line-height: 24px;"]},{"objectID":"165B99B2-BEAC-4C39-AF09-68B660EC2441","type":"symbol","name":"Input/normal","rect":{"x":40,"y":176,"width":304,"height":48},"rotation":0,"radius":0,"borders":[],"fills":[],"shadows":[],"opacity":1,"styleName":""},{"objectID":"8D465CDA-E637-4CC5-B22B-4128F2A41E57","type":"shape","name":"Bg_input","rect":{"x":40,"y":176,"width":304,"height":48},"rotation":0,"radius":100,"borders":[],"fills":[{"fillType":"color","color":{"r":255,"g":255,"b":255,"a":0.25,"color-hex":"#FFFFFF 25%","argb-hex":"#40FFFFFF","css-rgba":"rgba(255,255,255,0.25)","ui-color":"(r:1.00 g:1.00 b:1.00 a:0.25)"}}],"shadows":[],"opacity":1,"styleName":"","css":["background: rgba(255,255,255,0.25);","border-radius: 100px;"]},{"objectID":"1E2AD092-03B3-434E-8F95-86852CD7C4F4","type":"symbol","name":"Icon/person","rect":{"x":64,"y":188,"width":24,"height":24},"rotation":0,"radius":0,"borders":[],"fills":[],"shadows":[],"opacity":1,"styleName":"","exportable":[{"name":"Icon/person","format":"png","path":"Icon/person.png"}]},{"objectID":"22693D0A-6DCF-45E9-A664-24AB9D79D315","type":"shape","name":"Line","rect":{"x":104,"y":188,"width":2,"height":24},"rotation":0,"radius":0,"borders":[{"fillType":"color","position":"center","thickness":1,"color":{"r":255,"g":255,"b":255,"a":1,"color-hex":"#FFFFFF 100%","argb-hex":"#FFFFFFFF","css-rgba":"rgba(255,255,255,1)","ui-color":"(r:1.00 g:1.00 b:1.00 a:1.00)"}}],"fills":[],"shadows":[],"opacity":1,"styleName":"","css":["border: 1px solid #FFFFFF;"]},{"objectID":"BF1D3D7E-54DC-400A-88F6-0B673BF03D0D","type":"symbol","name":"Input/normal Copy","rect":{"x":40,"y":240,"width":304,"height":48},"rotation":0,"radius":0,"borders":[],"fills":[],"shadows":[],"opacity":1,"styleName":""},{"objectID":"87D83326-6E0F-4EEA-B312-F28E05B72863","type":"shape","name":"Bg_input","rect":{"x":40,"y":240,"width":304,"height":48},"rotation":0,"radius":100,"borders":[],"fills":[{"fillType":"color","color":{"r":255,"g":255,"b":255,"a":0.25,"color-hex":"#FFFFFF 25%","argb-hex":"#40FFFFFF","css-rgba":"rgba(255,255,255,0.25)","ui-color":"(r:1.00 g:1.00 b:1.00 a:0.25)"}}],"shadows":[],"opacity":1,"styleName":"","css":["background: rgba(255,255,255,0.25);","border-radius: 100px;"]},{"objectID":"B507ECFD-4F80-4E1A-B5AC-7AC48E3BCA7C","type":"text","name":"Text_default","rect":{"x":104,"y":252,"width":83,"height":24},"rotation":0,"radius":0,"borders":[],"fills":[],"shadows":[],"opacity":0.5,"styleName":"","content":"出生年月日","color":{"r":255,"g":255,"b":255,"a":1,"color-hex":"#FFFFFF 100%","argb-hex":"#FFFFFFFF","css-rgba":"rgba(255,255,255,1)","ui-color":"(r:1.00 g:1.00 b:1.00 a:1.00)"},"fontSize":16,"fontFace":"Roboto-Regular","textAlign":"left","letterSpacing":0.5,"lineHeight":24,"css":["opacity: 0.5;","font-family: Roboto-Regular;","font-size: 16px;","color: #FFFFFF;","letter-spacing: 0.5px;","line-height: 24px;"]},{"objectID":"7F0D17CB-E802-4210-AAA2-933E3AF012D9","type":"symbol","name":"Icon/person","rect":{"x":64,"y":252,"width":24,"height":24},"rotation":0,"radius":0,"borders":[],"fills":[],"shadows":[],"opacity":0.75,"styleName":"","css":["opacity: 0.75;"],"exportable":[{"name":"Icon/calender","format":"png","path":"Icon/calender.png"}]},{"objectID":"10BD976D-127C-4422-BB02-BEDE1B1B2771","type":"text","name":"輸入孩童的基本資料","rect":{"x":117,"y":120,"width":150,"height":24},"rotation":0,"radius":0,"borders":[],"fills":[],"shadows":[],"opacity":1,"styleName":"","content":"輸入孩童的基本資料","color":{"r":255,"g":255,"b":255,"a":1,"color-hex":"#FFFFFF 100%","argb-hex":"#FFFFFFFF","css-rgba":"rgba(255,255,255,1)","ui-color":"(r:1.00 g:1.00 b:1.00 a:1.00)"},"fontSize":16,"fontFace":"Roboto-Regular","textAlign":"center","letterSpacing":0.699999988079071,"lineHeight":24,"css":["font-family: Roboto-Regular;","font-size: 16px;","color: #FFFFFF;","letter-spacing: 0.7px;","line-height: 24px;"]},{"objectID":"88C2BF9B-EE2D-4306-BF9E-18012116E61A","type":"shape","name":"bg","rect":{"x":0,"y":368,"width":384,"height":224},"rotation":0,"radius":0,"borders":[],"fills":[{"fillType":"color","color":{"r":236,"g":239,"b":240,"a":1,"color-hex":"#ECEFF0 100%","argb-hex":"#FFECEFF0","css-rgba":"rgba(236,239,240,1)","ui-color":"(r:0.93 g:0.94 b:0.94 a:1.00)"}}],"shadows":[{"type":"outer","offsetX":0,"offsetY":0,"blurRadius":2,"spread":0,"color":{"r":0,"g":0,"b":0,"a":0.12,"color-hex":"#000000 12%","argb-hex":"#1F000000","css-rgba":"rgba(0,0,0,0.12)","ui-color":"(r:0.00 g:0.00 b:0.00 a:0.12)"}},{"type":"outer","offsetX":0,"offsetY":2,"blurRadius":2,"spread":0,"color":{"r":0,"g":0,"b":0,"a":0.24,"color-hex":"#000000 24%","argb-hex":"#3D000000","css-rgba":"rgba(0,0,0,0.24)","ui-color":"(r:0.00 g:0.00 b:0.00 a:0.24)"}},{"type":"inner","offsetX":0,"offsetY":0.5,"blurRadius":0,"spread":0,"color":{"r":255,"g":255,"b":255,"a":0.8,"color-hex":"#FFFFFF 80%","argb-hex":"#CCFFFFFF","css-rgba":"rgba(255,255,255,0.8)","ui-color":"(r:1.00 g:1.00 b:1.00 a:0.80)"}}],"opacity":1,"styleName":"","css":["background: #ECEFF0;","box-shadow: 0 2px 2px 0 rgba(0,0,0,0.24), 0 0 2px 0 rgba(0,0,0,0.12), inset 0 0 0 0 rgba(255,255,255,0.80);"]},{"objectID":"5DF655FB-9F2B-423D-8557-38C5FAA4AEBA","type":"shape","name":"space","rect":{"x":114,"y":551,"width":160,"height":24},"rotation":0,"radius":0,"borders":[],"fills":[{"fillType":"color","color":{"r":55,"g":71,"b":79,"a":1,"color-hex":"#37474F 100%","argb-hex":"#FF37474F","css-rgba":"rgba(55,71,79,1)","ui-color":"(r:0.22 g:0.28 b:0.31 a:1.00)"}}],"shadows":[],"opacity":0.15,"styleName":"","css":["opacity: 0.15;","background: #37474F;"]},{"objectID":"CE30689E-FC86-40B1-928F-3FC126C66E75","type":"shape","name":"caps","rect":{"x":28,"y":502,"width":18,"height":20},"rotation":0,"radius":0,"borders":[],"fills":[{"fillType":"color","color":{"r":55,"g":71,"b":79,"a":1,"color-hex":"#37474F 100%","argb-hex":"#FF37474F","css-rgba":"rgba(55,71,79,1)","ui-color":"(r:0.22 g:0.28 b:0.31 a:1.00)"}}],"shadows":[],"opacity":0.6,"styleName":"","css":["opacity: 0.6;","background: #37474F;"]},{"objectID":"D6E333C1-D8D4-4533-82D7-838E1317D19A","type":"shape","name":"delete","rect":{"x":340,"y":503,"width":24,"height":18},"rotation":0,"radius":0,"borders":[],"fills":[{"fillType":"color","color":{"r":55,"g":71,"b":79,"a":1,"color-hex":"#37474F 100%","argb-hex":"#FF37474F","css-rgba":"rgba(55,71,79,1)","ui-color":"(r:0.22 g:0.28 b:0.31 a:1.00)"}}],"shadows":[],"opacity":0.6,"styleName":"","css":["opacity: 0.6;","background: #37474F;"]},{"objectID":"70D31499-7F90-421E-8C2C-AB6BC989C91A","type":"shape","name":"button bg","rect":{"x":335,"y":544,"width":36,"height":36},"rotation":0,"radius":0,"borders":[{"fillType":"color","position":"inside","thickness":0.3,"color":{"r":76,"g":181,"b":171,"a":1,"color-hex":"#4CB5AB 100%","argb-hex":"#FF4CB5AB","css-rgba":"rgba(76,181,171,1)","ui-color":"(r:0.30 g:0.71 b:0.67 a:1.00)"}},{"fillType":"gradient","position":"inside","thickness":0.3,"gradient":{"type":"linear","from":{"x":0.5,"y":0},"to":{"x":0.5,"y":1},"colorStops":[{"color":{"r":0,"g":0,"b":0,"a":0,"color-hex":"#000000 0%","argb-hex":"#00000000","css-rgba":"rgba(0,0,0,0)","ui-color":"(r:0.00 g:0.00 b:0.00 a:0.00)"},"position":0},{"color":{"r":0,"g":0,"b":0,"a":0.02,"color-hex":"#000000 2%","argb-hex":"#05000000","css-rgba":"rgba(0,0,0,0.02)","ui-color":"(r:0.00 g:0.00 b:0.00 a:0.02)"},"position":0.8},{"color":{"r":0,"g":0,"b":0,"a":0.04,"color-hex":"#000000 4%","argb-hex":"#0A000000","css-rgba":"rgba(0,0,0,0.04)","ui-color":"(r:0.00 g:0.00 b:0.00 a:0.04)"},"position":1}]}},{"fillType":"color","position":"inside","thickness":0.3,"color":{"r":0,"g":150,"b":136,"a":0.12,"color-hex":"#009688 12%","argb-hex":"#1F009688","css-rgba":"rgba(0,150,136,0.12)","ui-color":"(r:0.00 g:0.59 b:0.53 a:0.12)"}}],"fills":[{"fillType":"color","color":{"r":76,"g":181,"b":171,"a":1,"color-hex":"#4CB5AB 100%","argb-hex":"#FF4CB5AB","css-rgba":"rgba(76,181,171,1)","ui-color":"(r:0.30 g:0.71 b:0.67 a:1.00)"}}],"shadows":[{"type":"outer","offsetX":0,"offsetY":0,"blurRadius":2,"spread":0,"color":{"r":0,"g":0,"b":0,"a":0.12,"color-hex":"#000000 12%","argb-hex":"#1F000000","css-rgba":"rgba(0,0,0,0.12)","ui-color":"(r:0.00 g:0.00 b:0.00 a:0.12)"}},{"type":"outer","offsetX":0,"offsetY":2,"blurRadius":2,"spread":0,"color":{"r":0,"g":0,"b":0,"a":0.24,"color-hex":"#000000 24%","argb-hex":"#3D000000","css-rgba":"rgba(0,0,0,0.24)","ui-color":"(r:0.00 g:0.00 b:0.00 a:0.24)"}},{"type":"outer","offsetX":0,"offsetY":0,"blurRadius":0,"spread":0.3,"color":{"r":0,"g":0,"b":0,"a":0.02,"color-hex":"#000000 2%","argb-hex":"#05000000","css-rgba":"rgba(0,0,0,0.02)","ui-color":"(r:0.00 g:0.00 b:0.00 a:0.02)"}}],"opacity":1,"styleName":"","css":["background: #4CB5AB;","border: 0 solid #4CB5AB;","border: 0 solid rgba(0,150,136,0.12);","box-shadow: 0 0 0 0 rgba(0,0,0,0.02), 0 2px 2px 0 rgba(0,0,0,0.24), 0 0 2px 0 rgba(0,0,0,0.12);"]},{"objectID":"E313917F-CFAF-46D3-973B-8AB8170C3A98","type":"shape","name":"return icon","rect":{"x":343.1,"y":556.8,"width":19,"height":12},"rotation":0,"radius":0,"borders":[],"fills":[{"fillType":"color","color":{"r":255,"g":255,"b":255,"a":1,"color-hex":"#FFFFFF 100%","argb-hex":"#FFFFFFFF","css-rgba":"rgba(255,255,255,1)","ui-color":"(r:1.00 g:1.00 b:1.00 a:1.00)"}}],"shadows":[],"opacity":1,"styleName":"","css":["background: #FFFFFF;"]},{"objectID":"2D421293-00F5-4E6F-BABB-36E7B309533F","type":"shape","name":"Bg_darkBlue","rect":{"x":0,"y":280,"width":384,"height":88},"rotation":0,"radius":0,"borders":[],"fills":[{"fillType":"color","color":{"r":20,"g":70,"b":105,"a":1,"color-hex":"#144669 100%","argb-hex":"#FF144669","css-rgba":"rgba(20,70,105,1)","ui-color":"(r:0.08 g:0.27 b:0.41 a:1.00)"}}],"shadows":[],"opacity":1,"styleName":"","css":["background: #144669;"]},{"objectID":"4B3F0B63-7A68-45FD-A2A3-152B19B6002B","type":"shape","name":"Rectangle 13","rect":{"x":56,"y":296,"width":272,"height":56},"rotation":0,"radius":100,"borders":[],"fills":[{"fillType":"color","color":{"r":0,"g":150,"b":136,"a":1,"color-hex":"#009688 100%","argb-hex":"#FF009688","css-rgba":"rgba(0,150,136,1)","ui-color":"(r:0.00 g:0.59 b:0.53 a:1.00)"}}],"shadows":[{"type":"outer","offsetX":0,"offsetY":6,"blurRadius":8,"spread":0,"color":{"r":0,"g":0,"b":0,"a":0.2,"color-hex":"#000000 20%","argb-hex":"#33000000","css-rgba":"rgba(0,0,0,0.2)","ui-color":"(r:0.00 g:0.00 b:0.00 a:0.20)"}}],"opacity":1,"styleName":"","css":["background: #009688;","box-shadow: 0 6px 8px 0 rgba(0,0,0,0.20);","border-radius: 100px;"]},{"objectID":"1EA8621F-B818-4BFA-A327-BF557030B251","type":"text","name":"繼續下一步","rect":{"x":144,"y":312,"width":96,"height":24},"rotation":0,"radius":0,"borders":[],"fills":[],"shadows":[],"opacity":1,"styleName":"","content":"繼續下一步","color":{"r":255,"g":255,"b":255,"a":1,"color-hex":"#FFFFFF 100%","argb-hex":"#FFFFFFFF","css-rgba":"rgba(255,255,255,1)","ui-color":"(r:1.00 g:1.00 b:1.00 a:1.00)"},"fontSize":18,"fontFace":"Roboto-Medium","textAlign":"center","letterSpacing":1.5,"lineHeight":24,"css":["font-family: Roboto-Medium;","font-size: 18px;","color: #FFFFFF;","letter-spacing: 1.5px;","line-height: 24px;"]}],"notes":[{"rect":{"x":324,"y":314,"width":120,"height":17},"note":"button會fix在鍵盤上面"}],"pageName":"Page 1","pageObjectID":"D526FE0C-BCEE-4C14-AAE0-85B6CF2F2B53","name":"會員專區-addkid(1)-typing","slug":"page-1-會員專區-addkid1-typing","objectID":"B3F0AFC0-DAE1-42FB-9ACB-2A3B5DF6AC33","width":384,"height":640,"imagePath":"preview/page-1-%E6%9C%83%E5%93%A1%E5%B0%88%E5%8D%80-addkid1-typing.png"}],"slices":[{"name":"Icon/menu","objectID":"583EEB53-0298-4464-92ED-E6D612EDCB21","rect":{"x":16,"y":40,"width":24,"height":24},"exportable":[{"name":"Icon/back","format":"png","path":"Icon/back.png"}]},{"name":"Icon/check","objectID":"1C34B1A2-B765-4899-8F80-1F87E7AFF339","rect":{"x":338,"y":42,"width":20,"height":20},"exportable":[{"name":"Icon/check","format":"png","path":"Icon/check.png"}]},{"name":"avatar_boy","objectID":"D6E62005-7B8C-48E0-A602-71E6C058E6CD","rect":{"x":67,"y":388,"width":40,"height":40},"exportable":[{"name":"avatar_boy","format":"png","path":"avatar_boy.png"}]},{"name":"avatar_girl copy","objectID":"B9CFD9AF-51E1-4D6F-BD3B-3FF71C1AD1D6","rect":{"x":216,"y":388,"width":40,"height":40},"exportable":[{"name":"avatar_girl copy","format":"png","path":"avatar_girl copy.png"}]},{"name":"Icon/person","objectID":"1E2AD092-03B3-434E-8F95-86852CD7C4F4","rect":{"x":64,"y":188,"width":24,"height":24},"exportable":[{"name":"Icon/person","format":"png","path":"Icon/person.png"}]},{"name":"Icon/person","objectID":"7F0D17CB-E802-4210-AAA2-933E3AF012D9","rect":{"x":64,"y":252,"width":24,"height":24},"exportable":[{"name":"Icon/calender","format":"png","path":"Icon/calender.png"}]}],"colors":[]}) });
     -->
     </script>
   </head>
